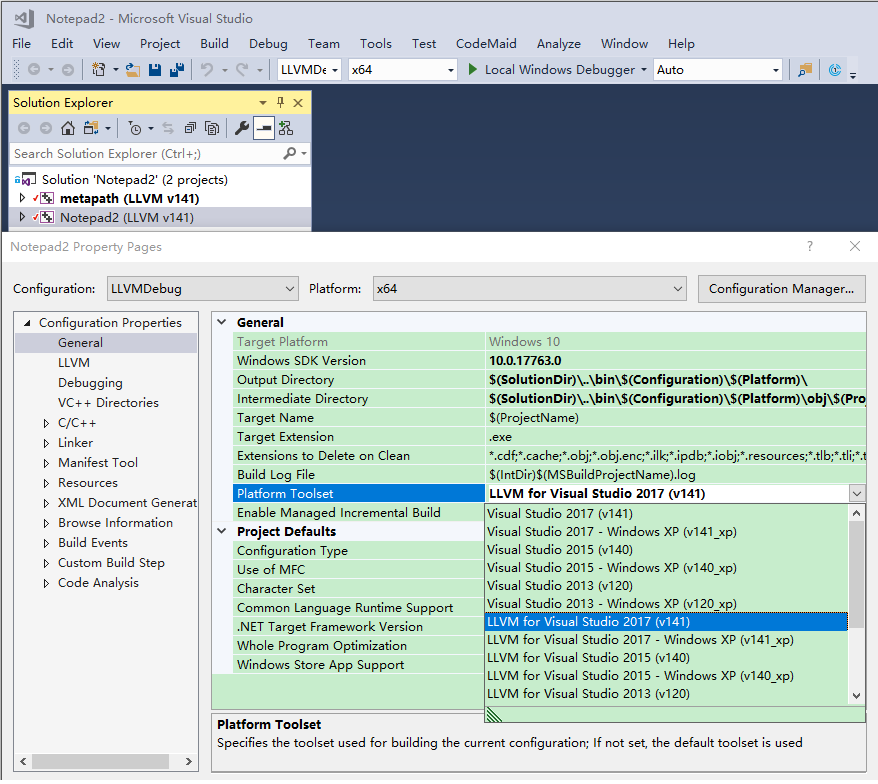
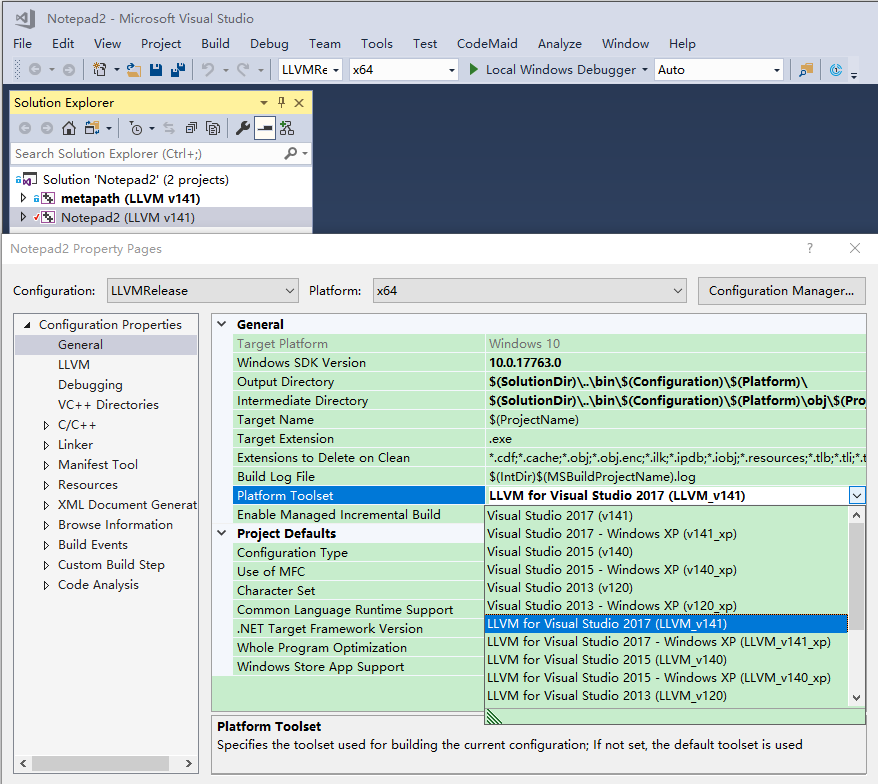
Update friendly name for Platform Toolsets in the property pages, add "LLVM_" prefix.

diff --git a/readme.md b/readme.md
@@ -5,7 +5,7 @@
 [![Latest release](https://img.shields.io/github/release/zufuliu/llvm-utils.svg)](https://github.com/zufuliu/llvm-utils/releases).
 
 ## LLVM for Visual Studio 2017 and 2019
-The Platform Toolset is "LLVM for Visual Studio 2017 (v141)" (`LLVM_v141`) and "LLVM for Visual Studio 2017 - Windows XP (v141_xp)" (`LLVM_v141_xp`).
+The Platform Toolset is "LLVM for Visual Studio 2017 (`LLVM_v141`)" and "LLVM for Visual Studio 2017 - Windows XP (`LLVM_v141_xp`)".
 
 ### Installation
 Please download and install LLVM from http://llvm.org/builds/ or http://releases.llvm.org/.
@@ -32,7 +32,7 @@ Assume `MB_PATH` is the MSBuild path for Visual C++ (e.g.: `C:\Program Files (x8
 `VS2015\install.bat` (based on install script for [LLVM 6.0.1](http://releases.llvm.org/download.html#6.0.1)) can be used to install MSBuild script for Visual Studio 2010, 2012, 2013 and 2015.
 
 ### Visual Studio 2015
-The Platform Toolset is "LLVM for Visual Studio 2015 (v140)" (`LLVM_v140`) and "LLVM for Visual Studio 2015 - Windows XP (v140_xp)" (`LLVM_v140_xp`).
+The Platform Toolset is "LLVM for Visual Studio 2015 (`LLVM_v140`)" and "LLVM for Visual Studio 2015 - Windows XP (`LLVM_v140_xp`)".
 
 | Folder | Target Path |
 |------|-------------|
@@ -43,7 +43,7 @@ The Platform Toolset is "LLVM for Visual Studio 2015 (v140)" (`LLVM_v140`) and "
 |`VS2015\LLVM_v140_xp` | `%MB_PATH%\V140\Platforms\Win32\PlatformToolsets\` |
 
 ### Visual Studio 2013
-The Platform Toolset is "LLVM for Visual Studio 2013 (v120)" (`LLVM_v120`) and "LLVM for Visual Studio 2013 - Windows XP (v120_xp)" (`LLVM_v120_xp`).
+The Platform Toolset is "LLVM for Visual Studio 2013 (`LLVM_v120`)" and "LLVM for Visual Studio 2013 - Windows XP (`LLVM_v120_xp`)".
 
 | Folder | Target Path |
 |------|-------------|
@@ -54,7 +54,7 @@ The Platform Toolset is "LLVM for Visual Studio 2013 (v120)" (`LLVM_v120`) and "
 |`VS2015\LLVM_v120_xp` | `%MB_PATH%\v120\Platforms\Win32\PlatformToolsets\` |
 
 ### Visual Studio 2012
-The Platform Toolset is "LLVM for Visual Studio 2012 (v110)" (`LLVM_v110`) and "LLVM for Visual Studio 2012 - Windows XP (v110_xp)" (`LLVM_v110_xp`).
+The Platform Toolset is "LLVM for Visual Studio 2012 (`LLVM_v110`)" and "LLVM for Visual Studio 2012 - Windows XP (`LLVM_v110_xp`)".
 
 | Folder | Target Path |
 |------|-------------|
@@ -65,7 +65,7 @@ The Platform Toolset is "LLVM for Visual Studio 2012 (v110)" (`LLVM_v110`) and "
 |`VS2015\Win32\LLVM_v110_xp` | `%MB_PATH%\v110\Platforms\Win32\PlatformToolsets\` |
 
 ### Visual Studio 2010
-The Platform Toolset is "LLVM for Visual Studio 2010 (v100)" (`LLVM_v100`) and "LLVM for Visual Studio 2008 (v90)" (`LLVM_v90`).
+The Platform Toolset is "LLVM for Visual Studio 2010 (`LLVM_v100`)" and "LLVM for Visual Studio 2008 (`LLVM_v90`)".
 
 | Folder | Target Path |
 |------|-------------|
